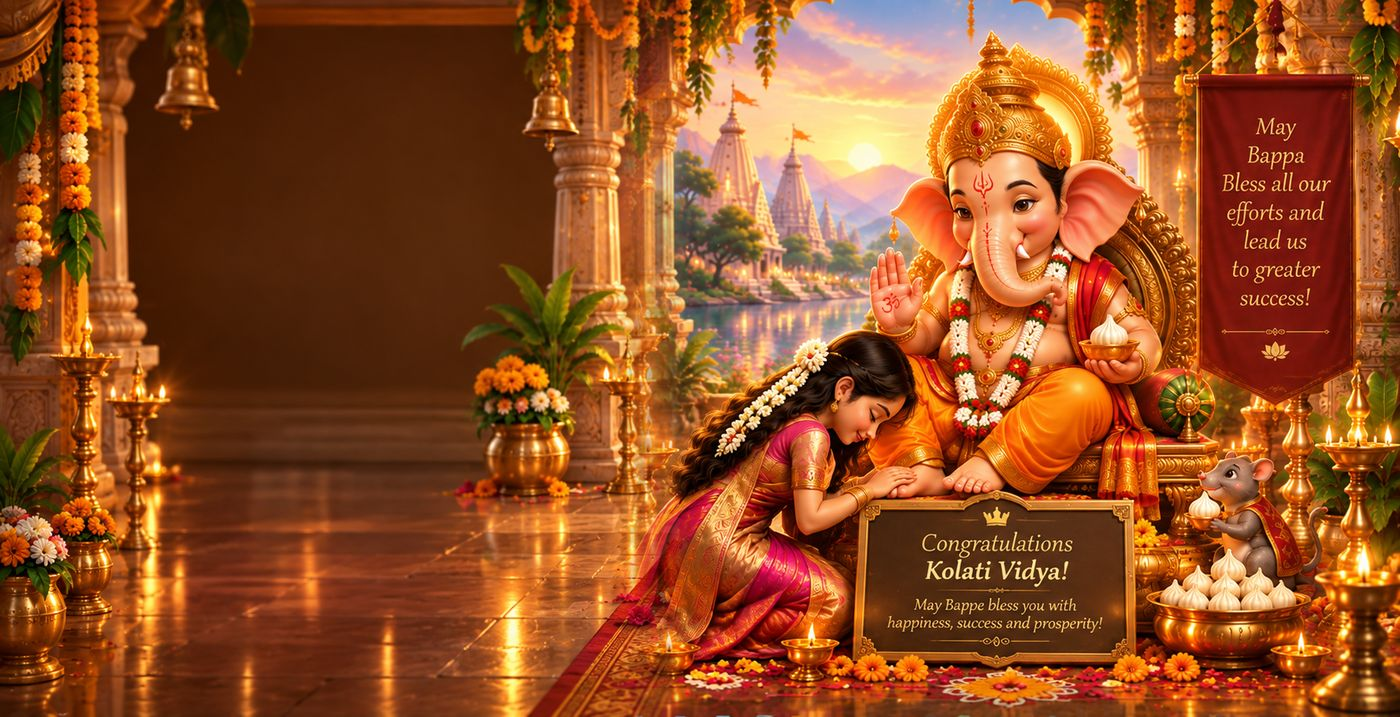
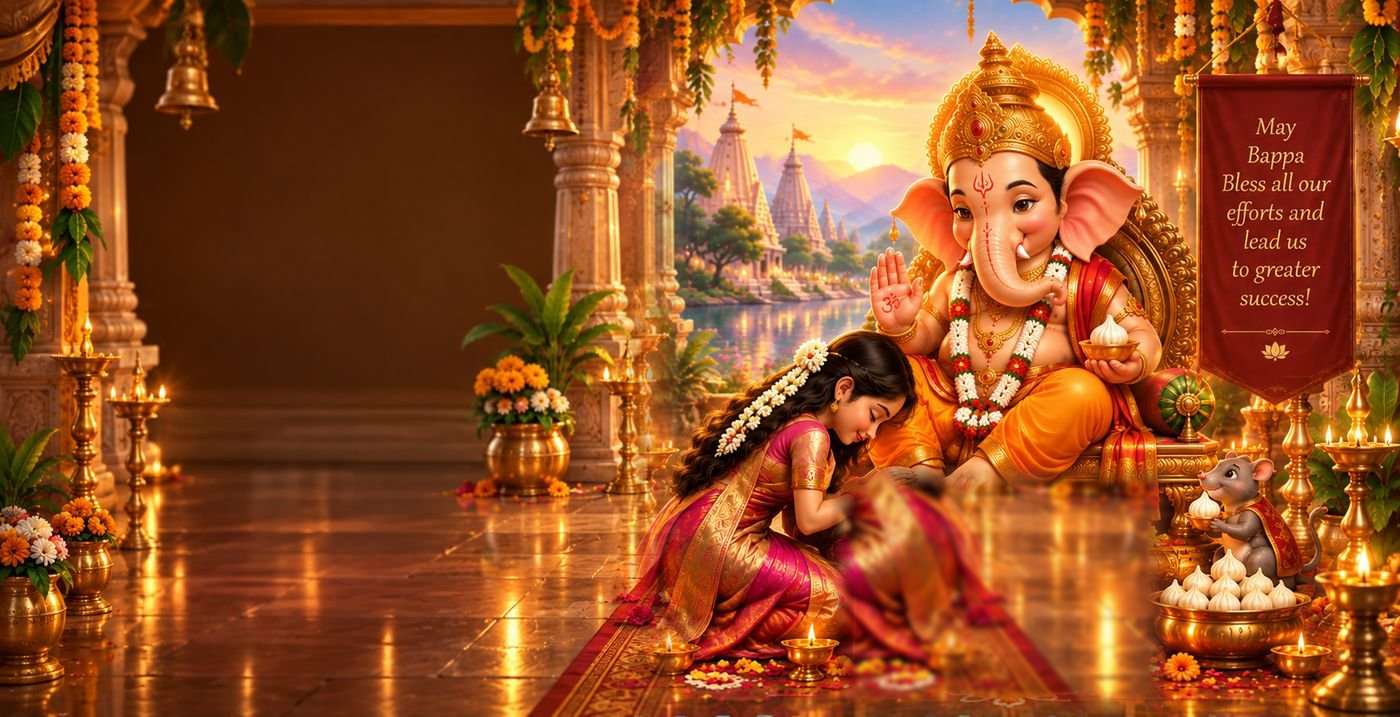
Scene: remove baked winner board, raise live nameplate

Changed region(s): [[0.5836, 0.6444, 0.8293, 1.0]]

diff --git a/frontend/src/components/ModakQuest.js b/frontend/src/components/ModakQuest.js
@@ -599,7 +599,7 @@ const CSS = `
   animation-name:mqTwinkle;animation-iteration-count:infinite;animation-timing-function:ease-in-out;}
 @keyframes mqTwinkle{0%,100%{opacity:0;transform:scale(.5)}50%{opacity:.95;transform:scale(1.5)}}
 /* winner nameplate - sits over the carved plaque in the artwork */
-.mq-plaque{position:absolute;z-index:3;left:41%;top:60%;width:21%;min-width:210px;max-width:290px;
+.mq-plaque{position:absolute;z-index:3;left:41%;top:26%;width:21%;min-width:210px;max-width:300px;
   animation:mqPlaque 3.4s ease-in-out infinite;}
 @keyframes mqPlaque{0%,100%{transform:translateY(0)}50%{transform:translateY(-6px)}}
 .mq-plaque-in{display:flex;flex-direction:column;align-items:center;text-align:center;
